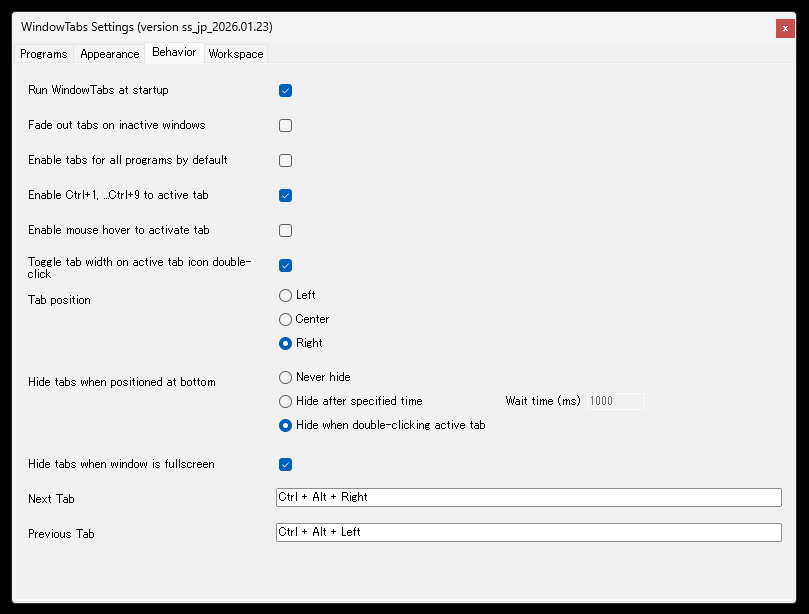
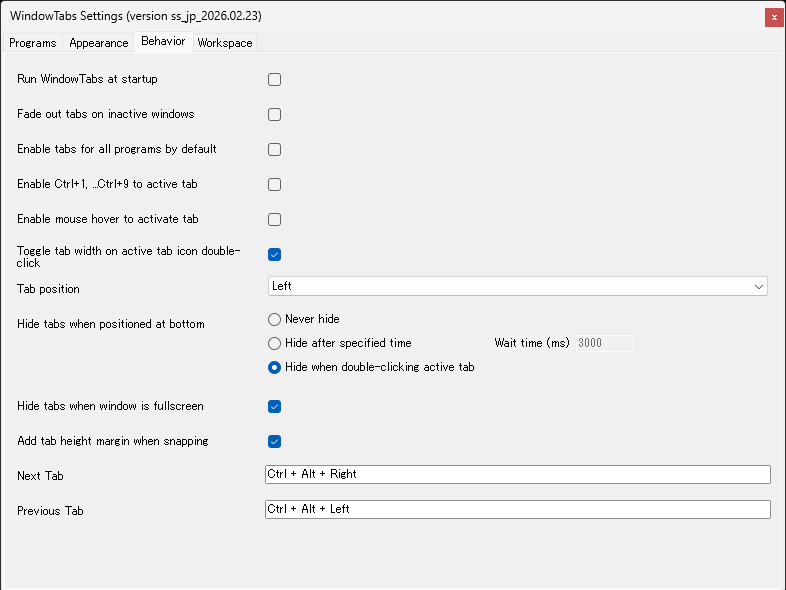
update README

diff --git a/README_Japanese.md b/README_Japanese.md
@@ -119,8 +119,10 @@ WindowTabs をスタートアップ時に起動:
   ---
   - タブを閉じる (サブメニュー: このタブ、左側のタブ/右側のタブ、その他タブ、すべてのタブ)
   ---
-  - タブの幅 (拡張 / 縮小)
-  - タブの名前 (変更)
+  - スナップ時のタブマージン (タブグループごとの切り替え)
+  - タブ位置 (左 / 中央 / 右、タブグループごと)
+  - タブの幅 (アイコンのみ / アイコンとテキスト)
+  - タブの名前 (変更 / リセット)
   ---
   - 設定
 
@@ -147,6 +149,9 @@ WindowTabs をスタートアップ時に起動:
 
 「他のスナップ」サブメニュー:
 - 左 / 右 / 上 / 下 - パーセンテージオプション（90%、70%、50%、30%）でスナップ
+- 左上、右上、左下、右下 - コーナーへのパーセンテージスナップ
+- 中央、水平中央、垂直中央
+- スナップ ディスプレイ全体 / スナップ デスクトップ全体 - Windowsの最大化を使わずに現在のディスプレイまたはデスクトップ全体にリサイズ
 - 異なる DPI ディスプレイでも正確に配置するための、DPI を考慮したパーセンテージベースの位置指定
 
 #### 他のグループへ連結
@@ -255,6 +260,7 @@ WindowTabs は再起動時や無効化時にタブグループの設定を保持
 
 タブと自動グループ化の動作を使用するプログラムを構成できます。
 
+- **すべての設定を表示**: チェックボックスで、現在実行していないプログラムの設定も表示可能
 - **タブ**: プログラムごとにタブ機能の有効/無効を設定
 - **自動グループ化**: 有効にすると、同じプログラムのウィンドウが自動で同じタブグループにまとめられます
 - **カテゴリー 1-10**: プログラムにカテゴリーを割り当てて、異なるアプリ間の自動グループ化が可能
@@ -263,6 +269,7 @@ WindowTabs は再起動時や無効化時にタブグループの設定を保持
   - 例えば、Chrome・Edge・Firefox などを同じカテゴリーに設定すれば、ブラウザが自動でグループ化されます
   - カテゴリー列は、自動グループ化が有効なプログラムにのみ表示されます
   - プログラムはカテゴリー番号順に並び替えられます
+- **削除ボタン [x]**: 実行中でないプロセスの設定を削除
 
 ![Settings Programs](README_Image/SettingsPrograms.png)
 

diff --git a/README.md b/README.md
@@ -119,8 +119,10 @@ This feature remains unchanged from the original WindowTabs functionality.
   ---
   - Close Tab (submenu: this tab, tabs to the left/right, other tabs, all tabs)
   ---
-  - Tab Width (wider / narrower)
-  - Tab Name (rename)
+  - Tab Margin When Snapping (per-tab-group toggle)
+  - Tab Position (Left / Center / Right per-tab-group)
+  - Tab Width (Icon Only / Icon and Text)
+  - Tab Name (rename / reset)
   ---
   - Settings
 
@@ -147,6 +149,9 @@ Top level menu options:
 
 "Snap Other" submenu:
 - Left / Right / Top / Bottom - Snap with percentage options (90%, 70%, 50%, 30%)
+- Top-Left, Top-Right, Bottom-Left, Bottom-Right - Corner snap with percentage options
+- Center, Center Horizontally, Center Vertically
+- Snap Display / Snap Desktop - Resize to fill current display or entire desktop (without using Windows maximize)
 - DPI-aware percentage-based positioning for correct placement across different DPI displays
 
 #### Link to another group
@@ -255,6 +260,7 @@ Access settings by right-clicking the tray icon and selecting "Settings" or by r
 
 Configure which programs should use tabs and auto-grouping behavior.
 
+- **Show all settings**: Checkbox to display settings for programs not currently running
 - **Tabs**: Enable/disable tabbing for each program
 - **Auto Grouping**: When enabled, windows of the same program are automatically grouped into the same tab group
 - **Category 1-10**: Assign programs to a category for cross-application auto-grouping
@@ -263,6 +269,7 @@ Configure which programs should use tabs and auto-grouping behavior.
   - For example, assign Chrome, Edge, Firefox, etc. to the same category to auto-group browsers together
   - Category columns are only visible when Auto Grouping is enabled for a program
   - Programs are sorted by category number for better visibility
+- **Delete button [x]**: Remove settings for non-running processes
 
 ![Settings Programs](README_Image/SettingsPrograms.png)
 
